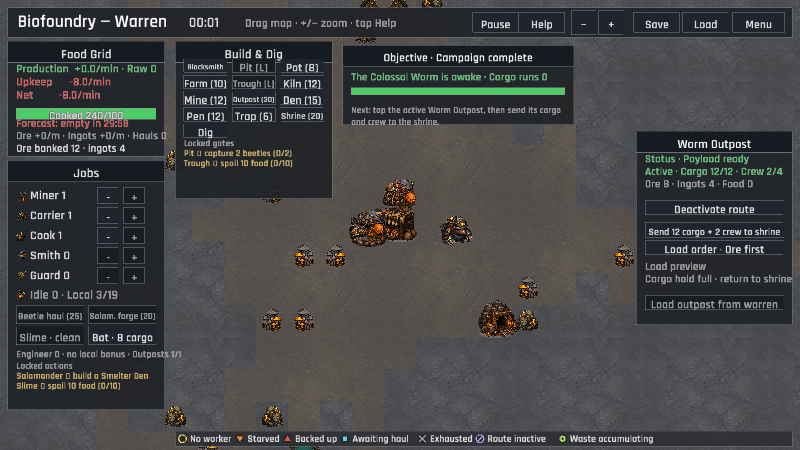
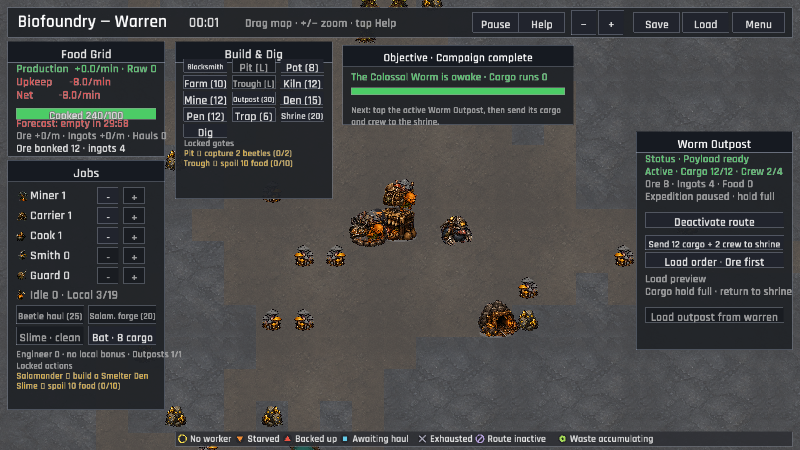
The outpost crew scouts beyond the worm's reach (Endless expedition loop, post-campaign)
The awakened route previously stored remote crew and cargo but gave the crew no work to do. Active staffed outposts now run a data-driven scouting cycle: each remote crew member consumes one cooked food and contributes three ore every 30 seconds, with progress pausing when provisions or hold capacity are missing. The existing shrine return route remains the way to recover the gathered cargo and crew.

The inspection card and Field Guide expose scouting progress and exact blockers. Save-compatible defaults cover the new expedition timer, focused simulation and UI tests cover production and pauses, and compact captures verify the new copy beside the route controls. Phase One campaign behavior remains unchanged because the loop is gated behind Worm Awakened.

Changed region(s): [[0.7812, 0.4044, 1.0, 0.7778]]

diff --git a/src/simulation/outposts.rs b/src/simulation/outposts.rs
@@ -50,6 +50,22 @@ pub struct CargoLoad {
     pub food: u32,
 }
 
+#[derive(Debug, Clone, Copy, PartialEq, Eq)]
+pub enum ExpeditionState {
+    Inactive,
+    NoCrew,
+    HoldFull,
+    NeedsFood {
+        required: u32,
+        available: u32,
+    },
+    Scouting {
+        progress_percent: u32,
+        ore_yield: u32,
+        food_cost: u32,
+    },
+}
+
 impl CargoLoad {
     pub fn total(self) -> u32 {
         self.ore
@@ -86,6 +102,71 @@ pub fn preview_outbound_cargo(
         room -= take;
     }
     load
+}
+
+pub fn expedition_state(outpost: &Outpost, data: &GameData) -> ExpeditionState {
+    if !outpost.active {
+        return ExpeditionState::Inactive;
+    }
+    let crew = outpost.crew.len() as u32;
+    if crew == 0 {
+        return ExpeditionState::NoCrew;
+    }
+    if outpost.cargo_total() >= data.balance.outpost_storage_cap {
+        return ExpeditionState::HoldFull;
+    }
+    let food_required = crew.saturating_mul(data.balance.outpost_expedition_food_per_crew);
+    let food_available = outpost.cargo.get(&Good::CookedFood).copied().unwrap_or(0);
+    if food_available < food_required {
+        return ExpeditionState::NeedsFood {
+            required: food_required,
+            available: food_available,
+        };
+    }
+    let cycle = data.balance.outpost_expedition_cycle_sec.max(0.1);
+    let progress_percent = (outpost.expedition_progress.max(0.0) / cycle * 100.0)
+        .floor()
+        .clamp(0.0, 100.0) as u32;
+    ExpeditionState::Scouting {
+        progress_percent,
+        ore_yield: crew.saturating_mul(data.balance.outpost_expedition_ore_per_crew),
+        food_cost: food_required,
+    }
+}
+
+pub fn tick_expeditions(session: &mut GameSession, data: &GameData, dt: f32) {
+    if !session.worm_awake {
+        return;
+    }
+    let cycle = data.balance.outpost_expedition_cycle_sec.max(0.1);
+    let food_per_crew = data.balance.outpost_expedition_food_per_crew;
+    let ore_per_crew = data.balance.outpost_expedition_ore_per_crew;
+    for outpost in &mut session.outposts {
+        if !outpost.active || outpost.crew.is_empty() {
+            continue;
+        }
+        let crew = outpost.crew.len() as u32;
+        let room = data
+            .balance
+            .outpost_storage_cap
+            .saturating_sub(outpost.cargo_total());
+        let food_cost = crew.saturating_mul(food_per_crew);
+        let food_available = outpost.cargo.get(&Good::CookedFood).copied().unwrap_or(0);
+        if room == 0 || food_available < food_cost {
+            continue;
+        }
+        outpost.expedition_progress = (outpost.expedition_progress.max(0.0) + dt).min(cycle);
+        if outpost.expedition_progress < cycle {
+            continue;
+        }
+        take_cargo(outpost, Good::CookedFood, food_cost);
+        add_cargo(
+            outpost,
+            Good::Ore,
+            crew.saturating_mul(ore_per_crew).min(room),
+        );
+        outpost.expedition_progress -= cycle;
+    }
 }
 
 fn start_transit(

diff --git a/src/simulation/tests/novel.rs b/src/simulation/tests/novel.rs
@@ -521,6 +521,75 @@ fn cargo_preview_matches_the_next_transit_and_respects_existing_cargo() {
 }
 
 #[test]
+fn staffed_outpost_scouting_consumes_food_and_stores_remote_ore() {
+    let (data, mut session, _outpost_pos) = active_outpost(28);
+    let crew: Vec<u32> = session
+        .creatures
+        .iter()
+        .take(2)
+        .map(|creature| creature.id)
+        .collect();
+    session.outposts[0].crew = crew;
+    session.outposts[0].cargo.insert(Good::CookedFood, 4);
+
+    assert_eq!(
+        outposts::expedition_state(&session.outposts[0], &data),
+        outposts::ExpeditionState::Scouting {
+            progress_percent: 0,
+            ore_yield: 6,
+            food_cost: 2,
+        }
+    );
+
+    outposts::tick_expeditions(
+        &mut session,
+        &data,
+        data.balance.outpost_expedition_cycle_sec,
+    );
+
+    assert_eq!(session.outposts[0].cargo.get(&Good::CookedFood), Some(&2));
+    assert_eq!(session.outposts[0].cargo.get(&Good::Ore), Some(&6));
+    assert_eq!(session.outposts[0].expedition_progress, 0.0);
+}
+
+#[test]
+fn outpost_scouting_pauses_without_provisions_or_hold_room() {
+    let (data, mut session, _outpost_pos) = active_outpost(29);
+    let crew: Vec<u32> = session
+        .creatures
+        .iter()
+        .take(2)
+        .map(|creature| creature.id)
+        .collect();
+    session.outposts[0].crew = crew;
+    session.outposts[0].cargo.insert(Good::CookedFood, 1);
+
+    assert_eq!(
+        outposts::expedition_state(&session.outposts[0], &data),
+        outposts::ExpeditionState::NeedsFood {
+            required: 2,
+            available: 1,
+        }
+    );
+    outposts::tick_expeditions(
+        &mut session,
+        &data,
+        data.balance.outpost_expedition_cycle_sec,
+    );
+    assert_eq!(session.outposts[0].cargo.get(&Good::Ore), None);
+
+    session.outposts[0].cargo.insert(Good::CookedFood, 2);
+    session.outposts[0].cargo.insert(
+        Good::Ore,
+        data.balance.outpost_storage_cap.saturating_sub(2),
+    );
+    assert_eq!(
+        outposts::expedition_state(&session.outposts[0], &data),
+        outposts::ExpeditionState::HoldFull
+    );
+}
+
+#[test]
 fn simulation_reports_arrival_after_a_cargo_run_completes() {
     let (data, mut session, outpost_pos) = active_outpost(22);
     session.economy.ore_stock = 1;

diff --git a/src/ui/hud/inspect.rs b/src/ui/hud/inspect.rs
@@ -23,8 +23,9 @@ mod workstations;
 use breeding::{breed_label, breeding_unlock_hint};
 use status::{
     inspect_status, local_mine_staffed_at, local_mine_worker_at, mine_staffing_label,
-    outpost_has_loadable_payload, outpost_load_hint, outpost_return_label, transit_destination,
-    transit_payload_line, waste_inspection_hint, worm_waiting_for_food, worm_waiting_for_ingots,
+    outpost_expedition_hint, outpost_has_loadable_payload, outpost_load_hint, outpost_return_label,
+    transit_destination, transit_payload_line, waste_inspection_hint, worm_waiting_for_food,
+    worm_waiting_for_ingots,
 };
 use workstations::{
     blacksmith_input_hint, blacksmith_queue_available, cook_pot_input_hint, kiln_input_hint,
@@ -55,7 +56,7 @@ pub(super) fn draw_inspect_panel(
         "blacksmith" => 194.0 + data.equipment.len() as f32 * 26.0,
         "breeding_pit" => 280.0,
         "worm_shrine" => 240.0,
-        "outpost" => 310.0,
+        "outpost" => 350.0,
         _ => 152.0,
     };
     let panel = Rect::new(LOGICAL_WIDTH - 262.0, top, 250.0, height);
@@ -479,6 +480,13 @@ pub(super) fn draw_inspect_panel(
                 dark::TEXT_DIM,
                 &mut y,
             );
+            if active && session.worm_awake {
+                if let Some(expedition_hint) =
+                    outpost.and_then(|route| outpost_expedition_hint(data, route))
+                {
+                    line(&expedition_hint, dark::TEXT_DIM, &mut y);
+                }
+            }
             if let Some(transit) = session.worm_transit.as_ref() {
                 if transit.outpost == pos {
                     line(&transit_payload_line(transit), dark::POSITIVE, &mut y);

diff --git a/src/ui/hud/inspect/status.rs b/src/ui/hud/inspect/status.rs
@@ -96,6 +96,30 @@ pub(super) fn outpost_load_hint(
     }
 }
 
+pub(super) fn outpost_expedition_hint(data: &GameData, outpost: &Outpost) -> Option<String> {
+    match crate::simulation::outposts::expedition_state(outpost, data) {
+        crate::simulation::outposts::ExpeditionState::Inactive
+        | crate::simulation::outposts::ExpeditionState::NoCrew => None,
+        crate::simulation::outposts::ExpeditionState::HoldFull => {
+            Some("Expedition paused · hold full".to_owned())
+        }
+        crate::simulation::outposts::ExpeditionState::NeedsFood {
+            required,
+            available,
+        } => Some(format!(
+            "Expedition paused · need {} food",
+            required.saturating_sub(available)
+        )),
+        crate::simulation::outposts::ExpeditionState::Scouting {
+            progress_percent,
+            ore_yield,
+            food_cost,
+        } => Some(format!(
+            "Expedition {progress_percent}% · +{ore_yield} ore / -{food_cost} food"
+        )),
+    }
+}
+
 /// Give every inspected building the same first-read answer: is it working,
 /// stalled, paused, or on a route that needs attention?
 pub(super) fn inspect_status(

diff --git a/src/data.rs b/src/data.rs
@@ -219,6 +219,15 @@ pub struct Balance {
     pub outpost_storage_cap: u32,
     #[serde(default = "default_worm_transit_time")]
     pub worm_transit_time_sec: f32,
+    /// Time for a staffed remote outpost to complete one scouting haul.
+    #[serde(default = "default_outpost_expedition_cycle")]
+    pub outpost_expedition_cycle_sec: f32,
+    /// Cooked food consumed by each remote crew member per scouting haul.
+    #[serde(default = "default_outpost_expedition_food")]
+    pub outpost_expedition_food_per_crew: u32,
+    /// Ore discovered by each remote crew member per scouting haul.
+    #[serde(default = "default_outpost_expedition_ore")]
+    pub outpost_expedition_ore_per_crew: u32,
     /// Ingot offerings are reserved above this banked amount.
     #[serde(default = "default_worm_ingot_reserve")]
     pub worm_ingot_reserve: u32,
@@ -285,6 +294,15 @@ fn default_outpost_storage() -> u32 {
 }
 fn default_worm_transit_time() -> f32 {
     18.0
+}
+fn default_outpost_expedition_cycle() -> f32 {
+    30.0
+}
+fn default_outpost_expedition_food() -> u32 {
+    1
+}
+fn default_outpost_expedition_ore() -> u32 {
+    3
 }
 fn default_worm_ingot_reserve() -> u32 {
     4

diff --git a/src/ui/hud/overlays.rs b/src/ui/hud/overlays.rs
@@ -11,7 +11,7 @@ use macroquad_toolkit::prelude::*;
 use macroquad_toolkit::ui::draw_ui_text_ex;
 
 const INSPECT_HELP_BODY: &str =
-    "Tap a building on the map to see its status and controls. Tap an equipment button in the Blacksmith card to queue it; after onboarding, Breeding Pit buttons show specialist benefits. At an awakened Outpost, tap Load order to rotate cargo priority.";
+    "Tap a building on the map to see its status and controls. Tap an equipment button in the Blacksmith card to queue it; after onboarding, Breeding Pit buttons show specialist benefits. At an awakened Outpost, tap Load order to rotate cargo priority, send food and crew to scout for ore, then return the loaded hold to the shrine.";
 const OBJECTIVE_HELP_BODY: &str =
     "Read the Objective card for the current campaign milestone and its next requirement. Locked gates name their exact unlock; after the worm wakes, inspect the Outpost to prepare cargo runs.";
 

diff --git a/src/ui/hud/inspect/tests.rs b/src/ui/hud/inspect/tests.rs
@@ -504,6 +504,27 @@ fn full_outpost_load_hint_explains_the_disabled_load_action() {
 }
 
 #[test]
+fn outpost_expedition_hint_names_remote_progress_and_blockers() {
+    let data = GameData::load().expect("embedded game data");
+    let mut outpost = crate::state::outposts::Outpost::new(TilePos::new(4, 4));
+    outpost.active = true;
+    outpost.crew = vec![1, 2];
+    outpost.cargo.insert(Good::CookedFood, 4);
+    outpost.expedition_progress = 15.0;
+
+    assert_eq!(
+        outpost_expedition_hint(&data, &outpost).as_deref(),
+        Some("Expedition 50% · +6 ore / -2 food")
+    );
+
+    outpost.cargo.insert(Good::CookedFood, 1);
+    assert_eq!(
+        outpost_expedition_hint(&data, &outpost).as_deref(),
+        Some("Expedition paused · need 1 food")
+    );
+}
+
+#[test]
 fn in_flight_payload_summary_names_cargo_and_crew() {
     let transit = WormTransit {
         outpost: TilePos::new(4, 4),

diff --git a/src/state/outposts.rs b/src/state/outposts.rs
@@ -45,6 +45,9 @@ pub struct Outpost {
     pub cargo: HashMap<Good, u32>,
     #[serde(default)]
     pub crew: Vec<u32>,
+    /// Seconds accumulated toward the next remote scouting haul.
+    #[serde(default)]
+    pub expedition_progress: f32,
     #[serde(default)]
     pub last_failure: Option<String>,
 }
@@ -57,6 +60,7 @@ impl Outpost {
             cargo_priority: CargoPriority::default(),
             cargo: HashMap::new(),
             crew: Vec::new(),
+            expedition_progress: 0.0,
             last_failure: None,
         }
     }

diff --git a/src/data/tests.rs b/src/data/tests.rs
@@ -75,6 +75,9 @@ fn balance_values_are_playable() {
     assert!(b.worm_food_per_min > 0.0);
     assert!(b.worm_food_per_offering > 0.0);
     assert!(b.worm_awaken_ingots > 0);
+    assert!(b.outpost_expedition_cycle_sec > 0.0);
+    assert!(b.outpost_expedition_food_per_crew > 0);
+    assert!(b.outpost_expedition_ore_per_crew > 0);
     assert!(
         b.worm_awaken_at >= b.worm_food_per_offering * b.worm_awaken_ingots as f32,
         "the food goal must fund every required ingot offering"

diff --git a/src/game/capture_scenes.rs b/src/game/capture_scenes.rs
@@ -566,7 +566,9 @@ pub(super) fn begin(game: &mut Game, scene: &str) {
                 if let Some(route) = session.outposts.last_mut() {
                     route.cargo.clear();
                     route.cargo.insert(Good::Ore, 2);
+                    route.cargo.insert(Good::CookedFood, 4);
                     route.cargo_priority = CargoPriority::Ingots;
+                    route.expedition_progress = 12.0;
                 }
             }
         }

diff --git a/src/simulation.rs b/src/simulation.rs
@@ -100,6 +100,7 @@ pub fn tick(session: &mut GameSession, data: &GameData) -> TickReport {
         (ingot_per_min - session.economy.ingot_ema_per_min) * smoothing;
     let wild = wildlife::tick_wildlife(session, data, dt);
     let deserters = food::tick_hunger(session, data, dt);
+    outposts::tick_expeditions(session, data, dt);
     let transit_completed = outposts::tick_transit(session, data, dt);
 
     let mut won_this_tick = false;

diff --git a/src/ui/hud/overlays/tests.rs b/src/ui/hud/overlays/tests.rs
@@ -40,4 +40,5 @@ fn field_guide_explains_breeding_specialists() {
 fn field_guide_points_to_post_campaign_cargo_runs() {
     assert!(OBJECTIVE_HELP_BODY.contains("worm wakes"));
     assert!(OBJECTIVE_HELP_BODY.contains("Outpost"));
+    assert!(INSPECT_HELP_BODY.contains("scout for ore"));
 }
